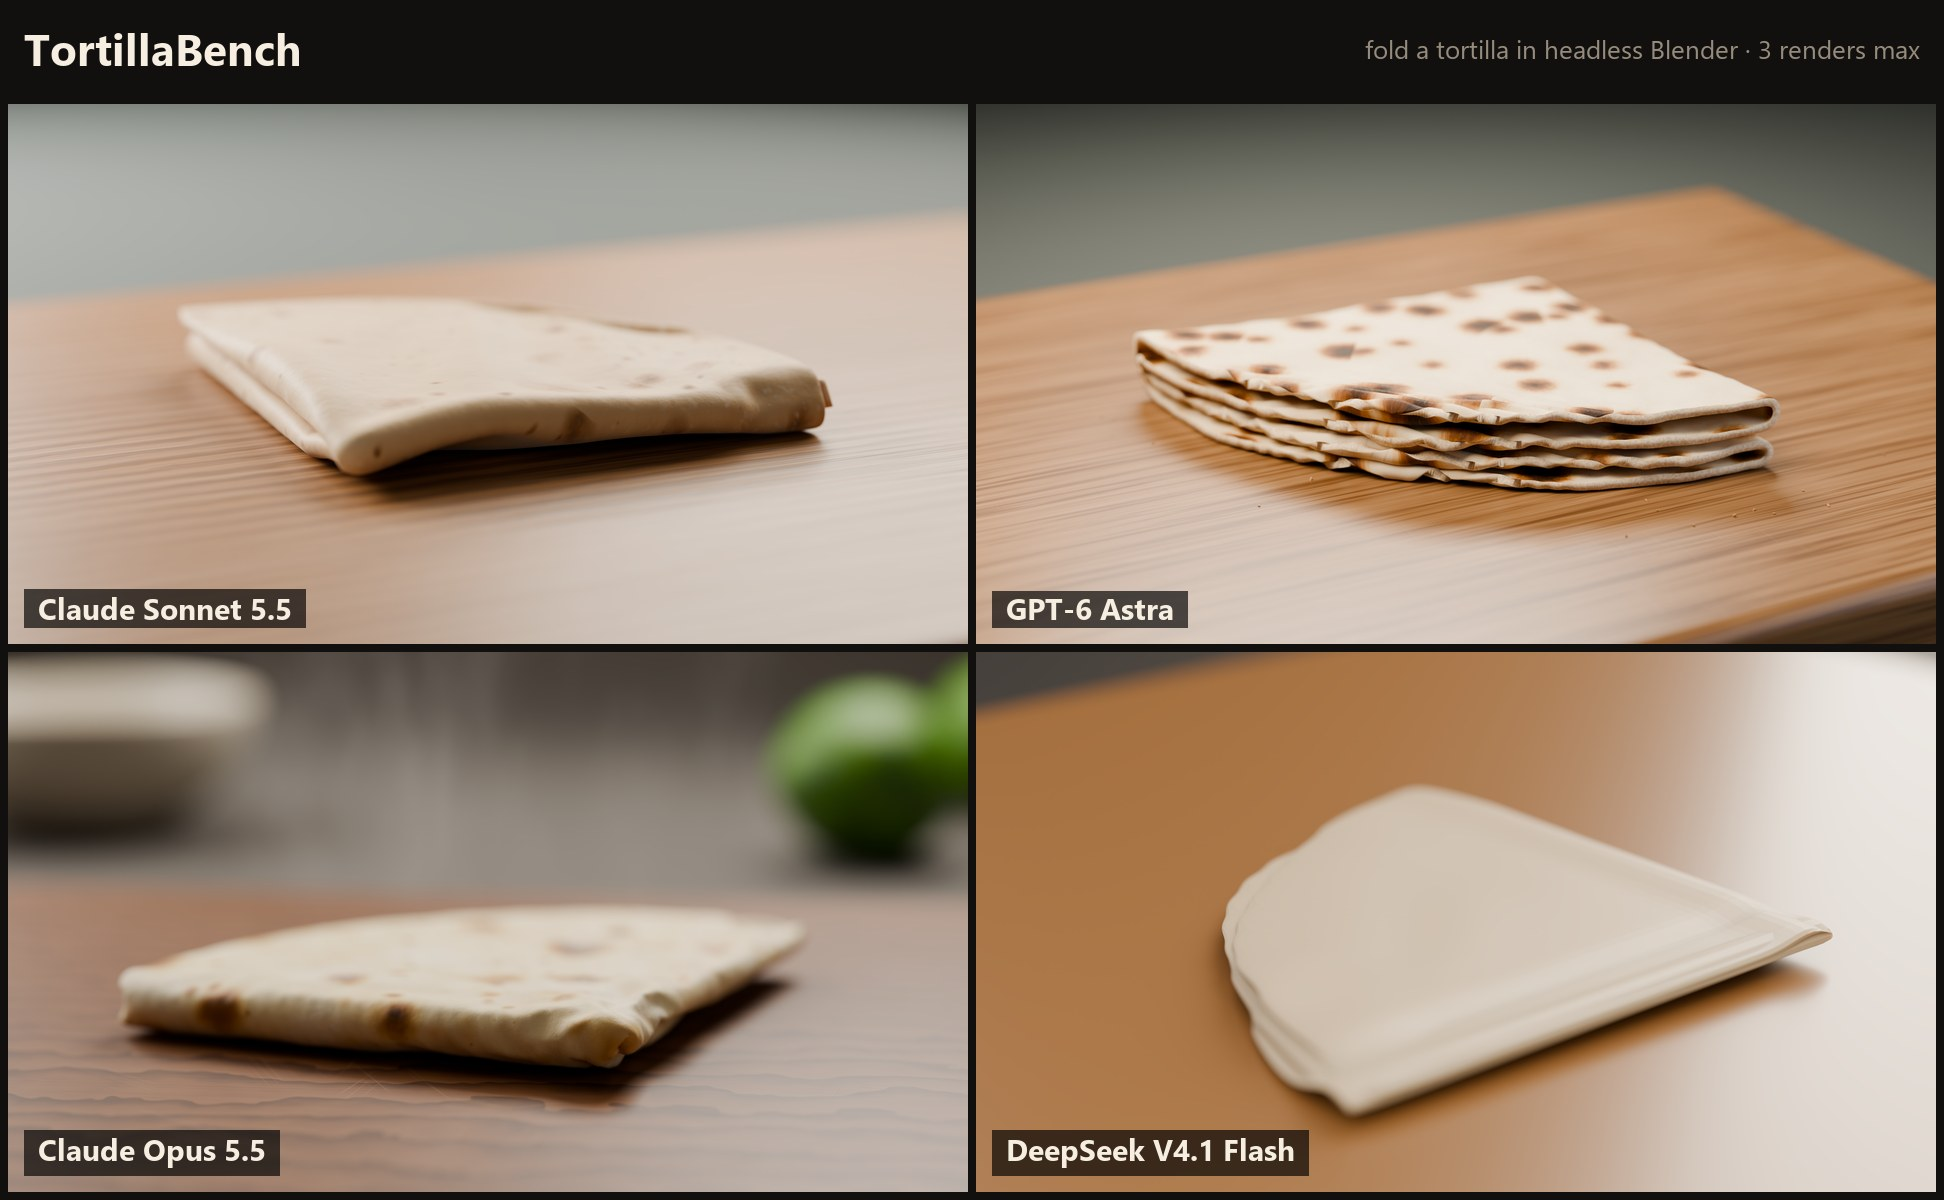
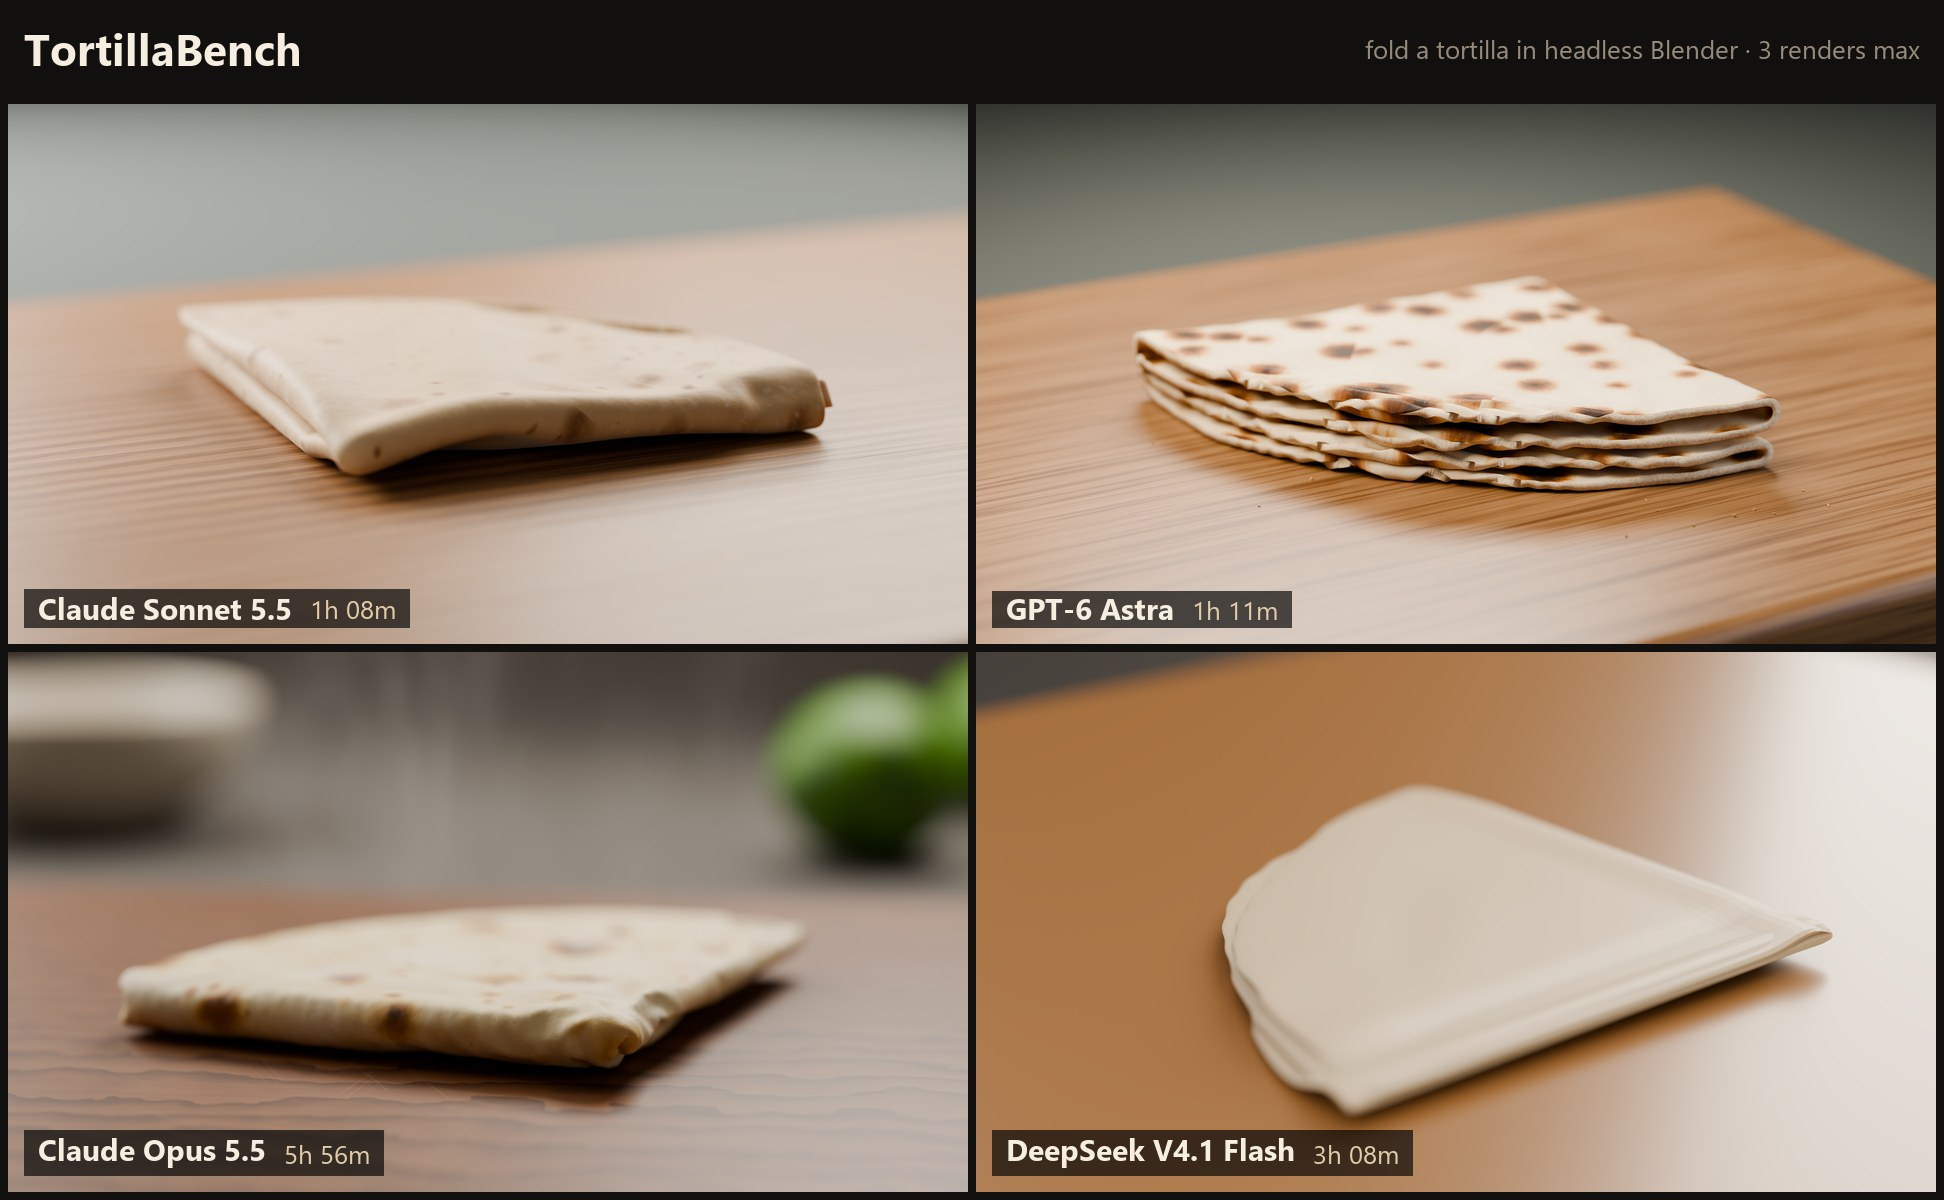
Add wall-clock time to grid labels, grades and meta; light-mode grades graphic

diff --git a/README.md b/README.md
@@ -12,14 +12,14 @@ It's a fun benchmark covering 3D modeling, physics, procedural materials, photog
 
 ![TortillaBench round 1 grades](assets/round1_grades.jpg)
 
-| Model | Agent | Grade | Cloud calls | GPU time | Notes |
-|---|---|---|---|---|---|
-| Claude Opus 5.5 | Claude Code | 6.3 | 33 | ~9.7 h | About 30 simulation-only bakes to solve the second fold; the only run that added props and steam |
-| GPT-6 Astra | Codex | 6.0 | 3 | ~0.9 h | Cleanest layered fold and the strongest char spots |
-| Claude Sonnet 5.5 | Claude Code | 5.6 | n/a | n/a | Ran before cloud rendering existed, on local Blender |
-| DeepSeek V4.1 Flash | pi | 4.7 | 34 | ~1.7 h | Six shader links dropped before the last render, so the materials came out flat (the model caught and reported this itself) |
+| Model | Agent | Grade | Wall clock | Cloud calls | GPU time | Notes |
+|---|---|---|---|---|---|---|
+| Claude Opus 5.5 | Claude Code | 6.3 | 5h 56m | 33 | ~9.7 h | About 30 simulation-only bakes to solve the second fold; the only run that added props and steam |
+| GPT-6 Astra | Codex | 6.0 | 1h 11m | 3 | ~0.9 h | Cleanest layered fold and the strongest char spots |
+| Claude Sonnet 5.5 | Claude Code | 5.6 | 1h 08m | n/a | n/a | Ran before cloud rendering existed, on local Blender |
+| DeepSeek V4.1 Flash | pi | 4.7 | 3h 08m | 34 | ~1.7 h | Six shader links dropped before the last render, so the materials came out flat (the model caught and reported this itself) |
 
-Grades are from one pass of Gemini 3.1 Pro using [`GRADING.md`](GRADING.md); a non-Anthropic, non-OpenAI judge was picked so no model grades itself. Treat differences under about half a point as noise.
+Grades are from one pass of Gemini 3.1 Pro using [`GRADING.md`](GRADING.md); a non-Anthropic, non-OpenAI judge was picked so no model grades itself. Treat differences under about half a point as noise. Wall clock is first to last message in the agent session log.
 
 ## Gallery
 
